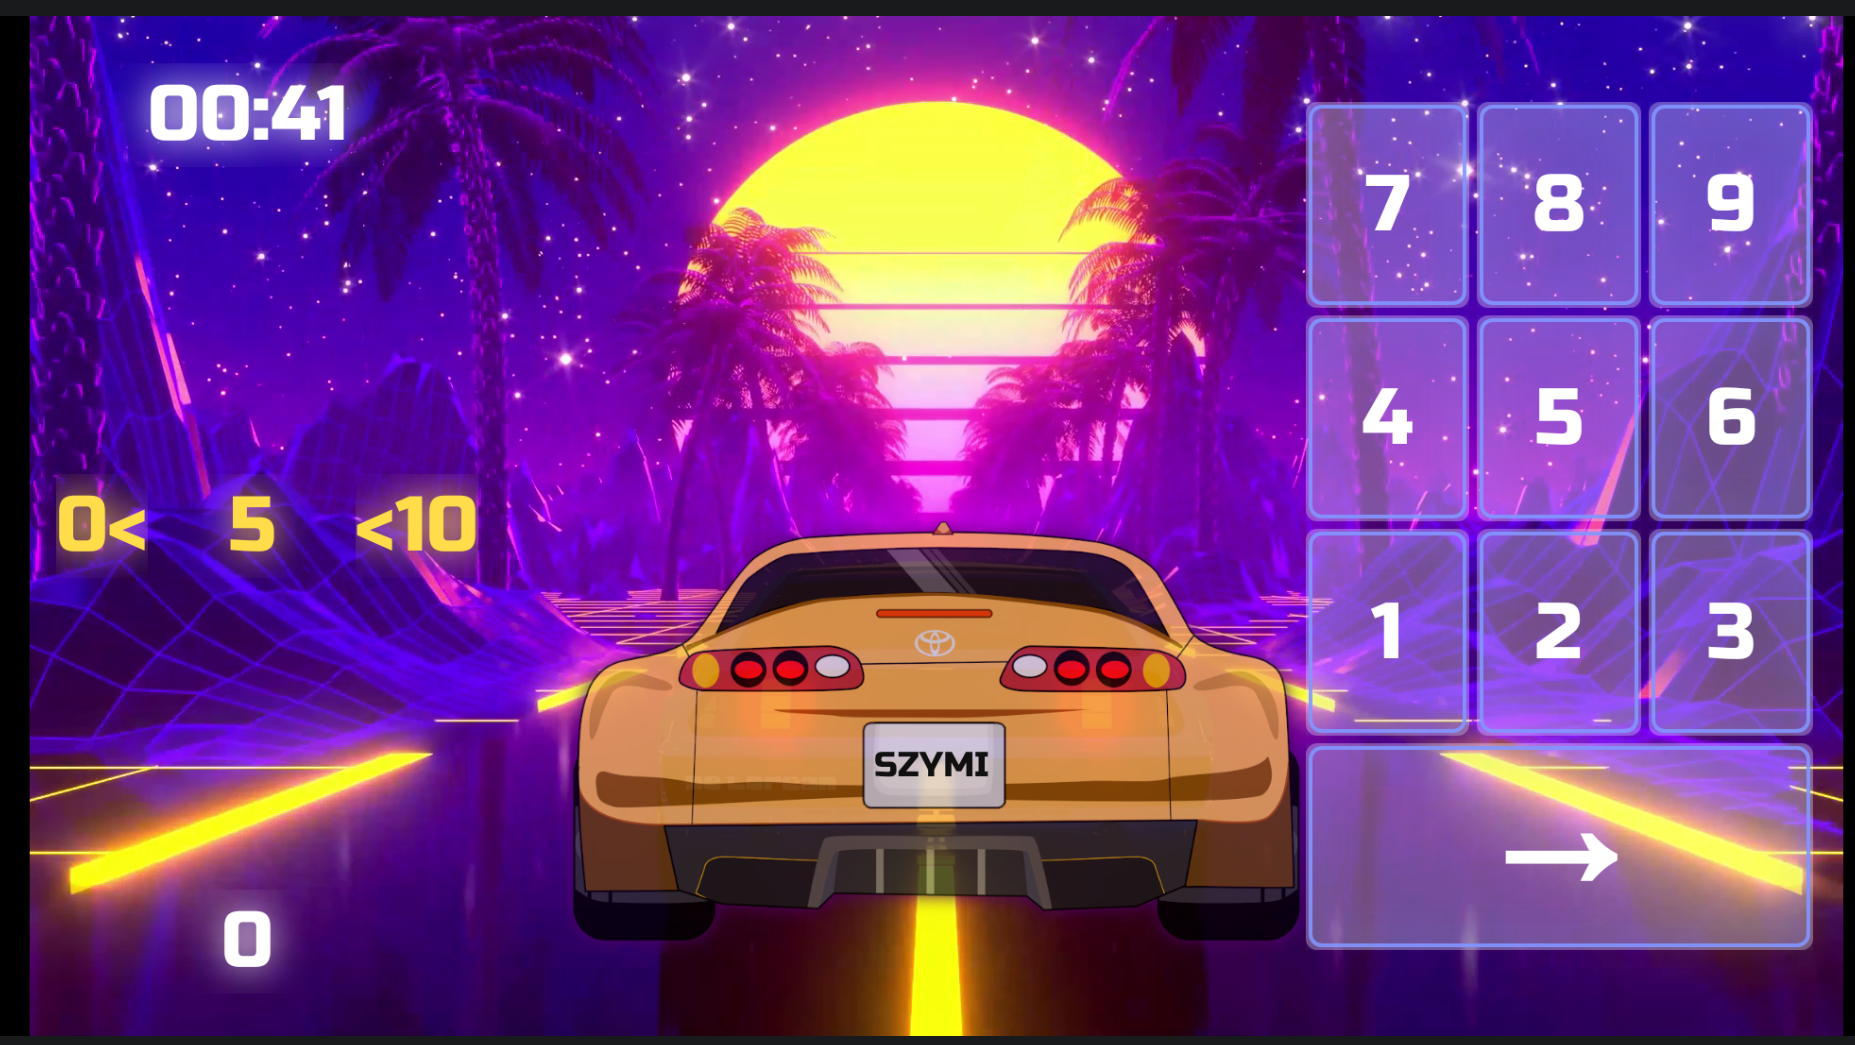
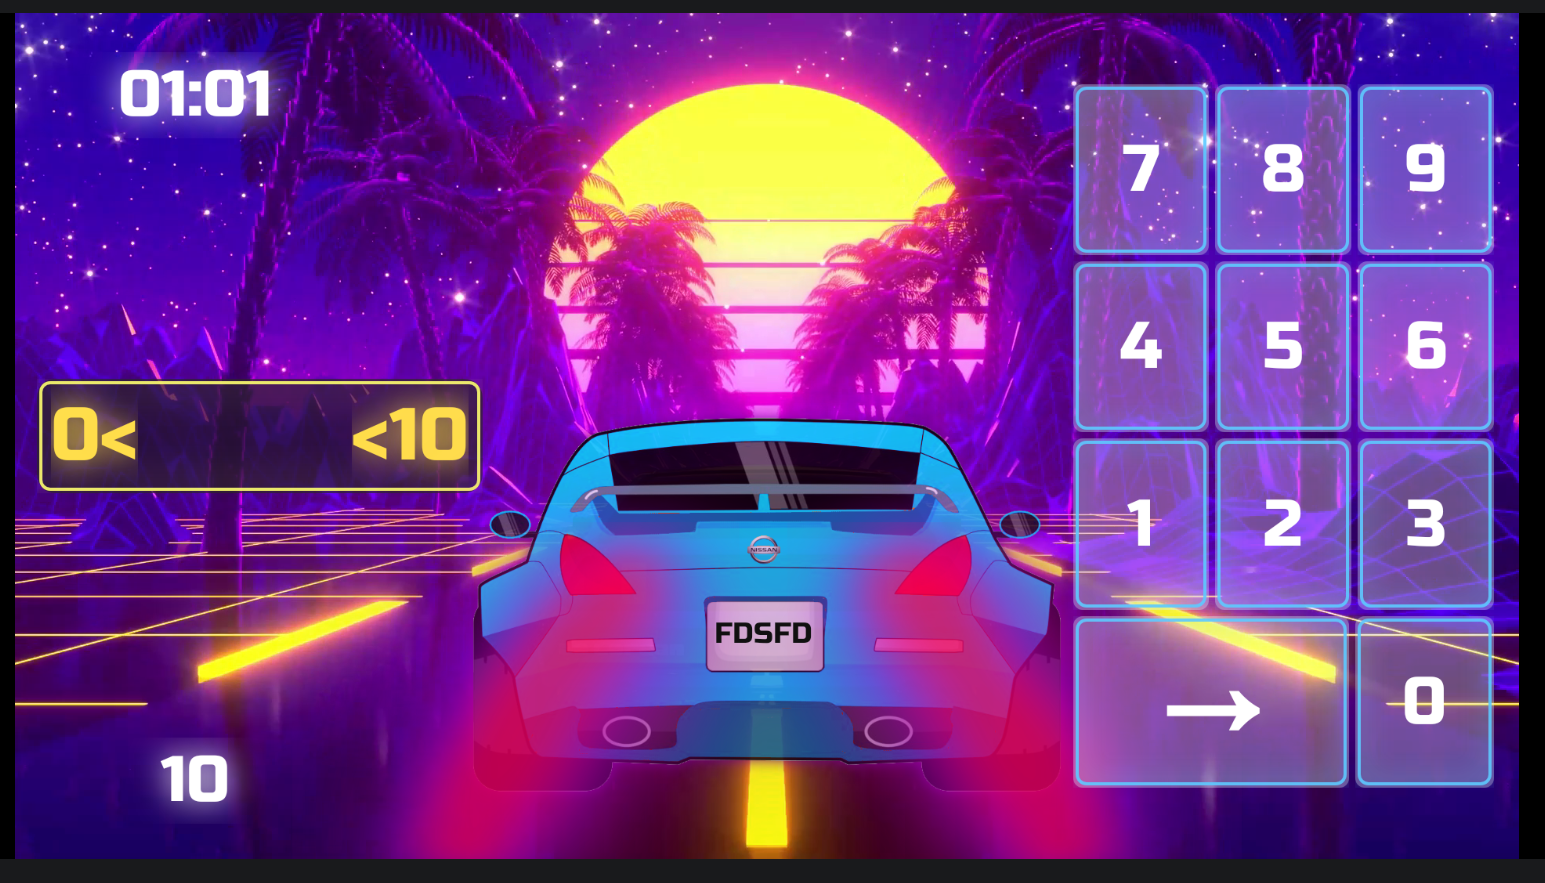
fix

diff --git a/README.md b/README.md
@@ -6,20 +6,20 @@ nie posiada kilku dużych plików uniemożliwiając biuld projektu.
 <br>
 ## Fraszka dla pana
 <b><i>
-Panie Radosławie,
-Proszę serdecznie o szósteczkę.
-Panie Radosławie,
-Inaczej musi pan znaleźć wymóweczkę!
+Panie Radosławie,<br>
+Proszę serdecznie o szósteczkę.<br>
+Panie Radosławie,<br>
+Inaczej musi pan znaleźć wymóweczkę!<br>
 
-Panie Sobieraju,
-Pracowałem każdego dnia oraz nocy,
-Panie Sobieraju,
-Przez ten projekt opadłem z wszelkiej mocy!
+Panie Sobieraju,<br>
+Pracowałem każdego dnia oraz nocy,<br>
+Panie Sobieraju,<br>
+Przez ten projekt opadłem z wszelkiej mocy!<br>
 
-Panie Radku,
-Taki świetny projekt, zlituj się pan!
-Panie Radku,
-A w WPF piękne projekty panu dam!
+Panie Radku,<br>
+Taki świetny projekt, zlituj się pan!<br>
+Panie Radku,<br>
+A w WPF piękne projekty panu dam!<br>
 </b></i>
 <br>
 ## Screeny:
